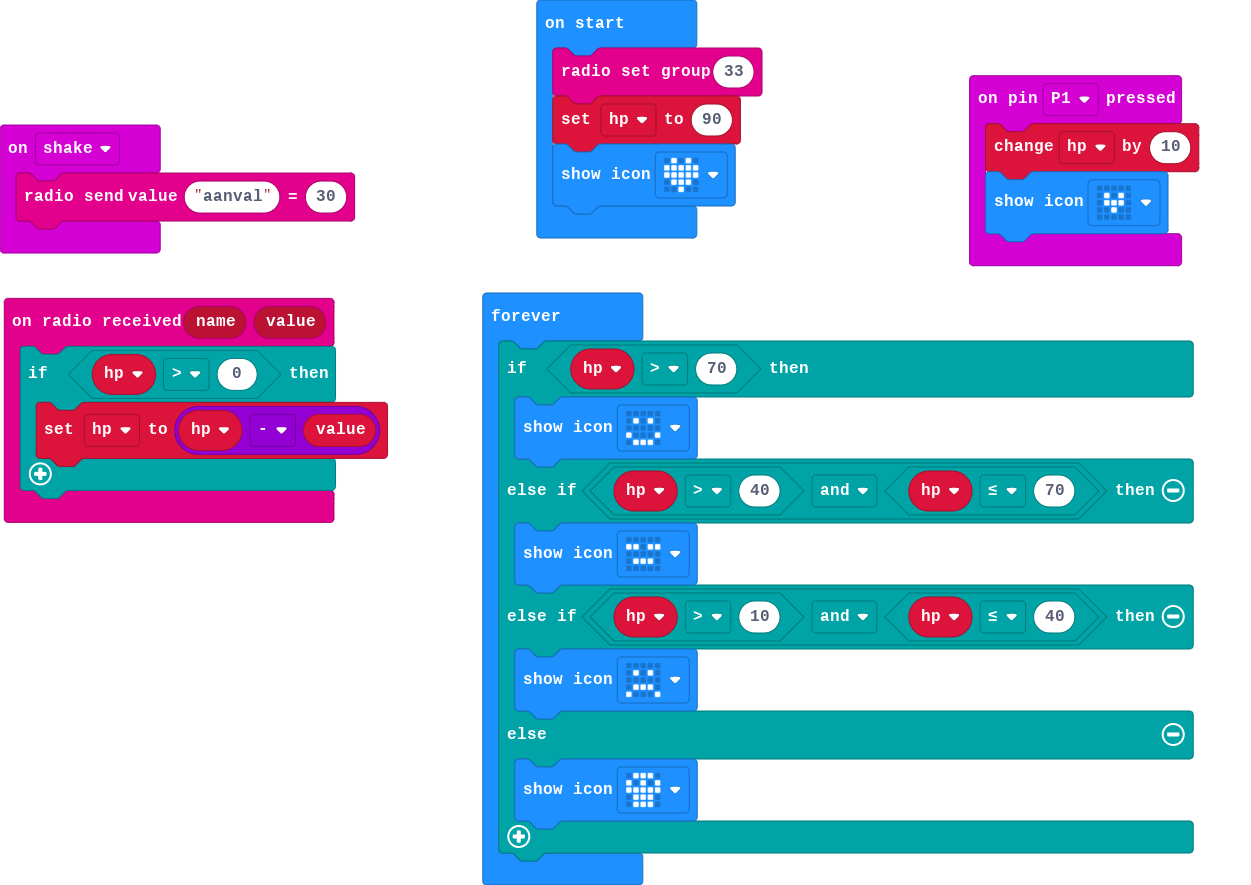
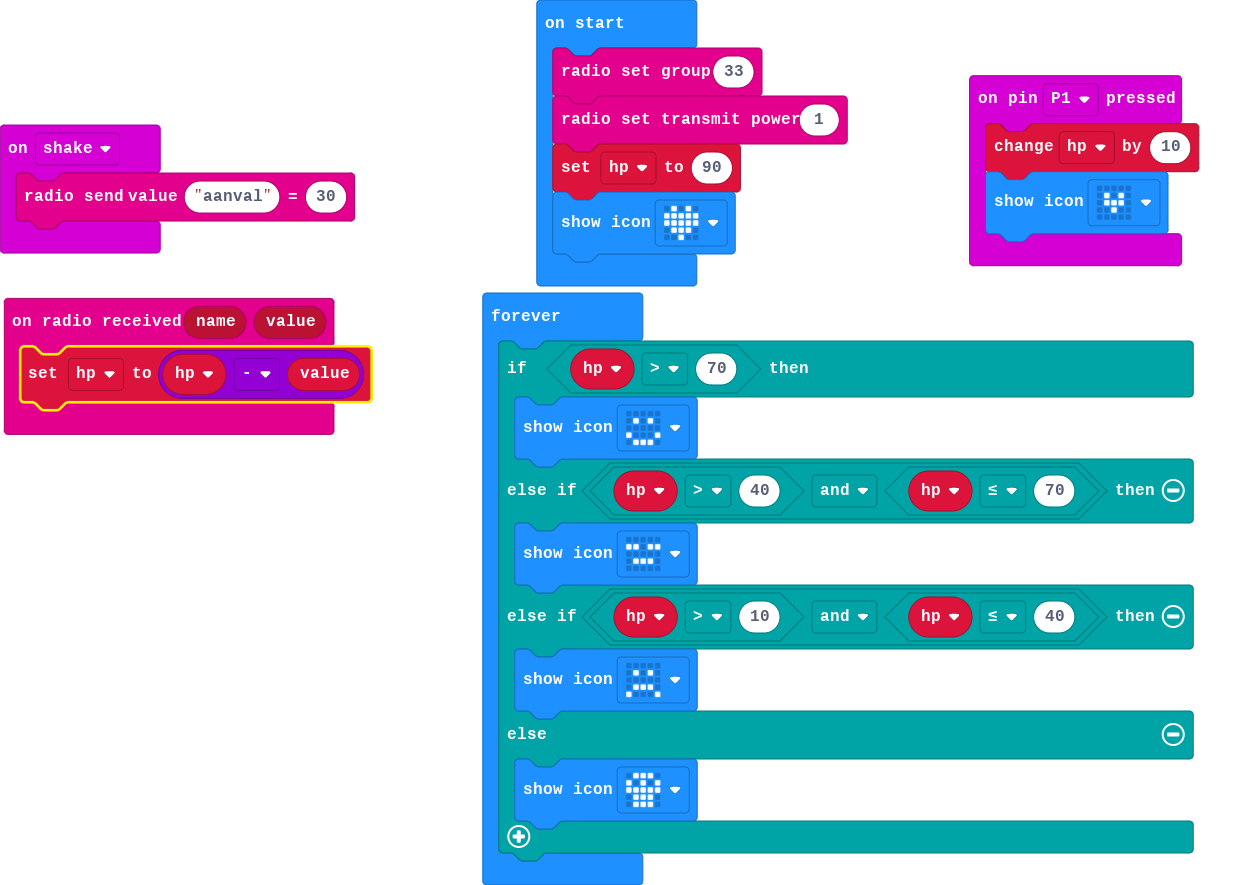
Update main.blocks, main.ts

Changed region(s): [[0.0, 0.3661, 0.3118, 0.6102], [0.4053, 0.0915, 0.6859, 0.3356]]

diff --git a/main.ts b/main.ts
@@ -6,12 +6,11 @@ input.onGesture(Gesture.Shake, function () {
     radio.sendValue("aanval", 30)
 })
 radio.onReceivedValue(function (name, value) {
-    if (hp > 0) {
-        hp = hp - value
-    }
+    hp = hp - value
 })
 let hp = 0
 radio.setGroup(33)
+radio.setTransmitPower(1)
 hp = 90
 basic.showIcon(IconNames.Heart)
 basic.forever(function () {
